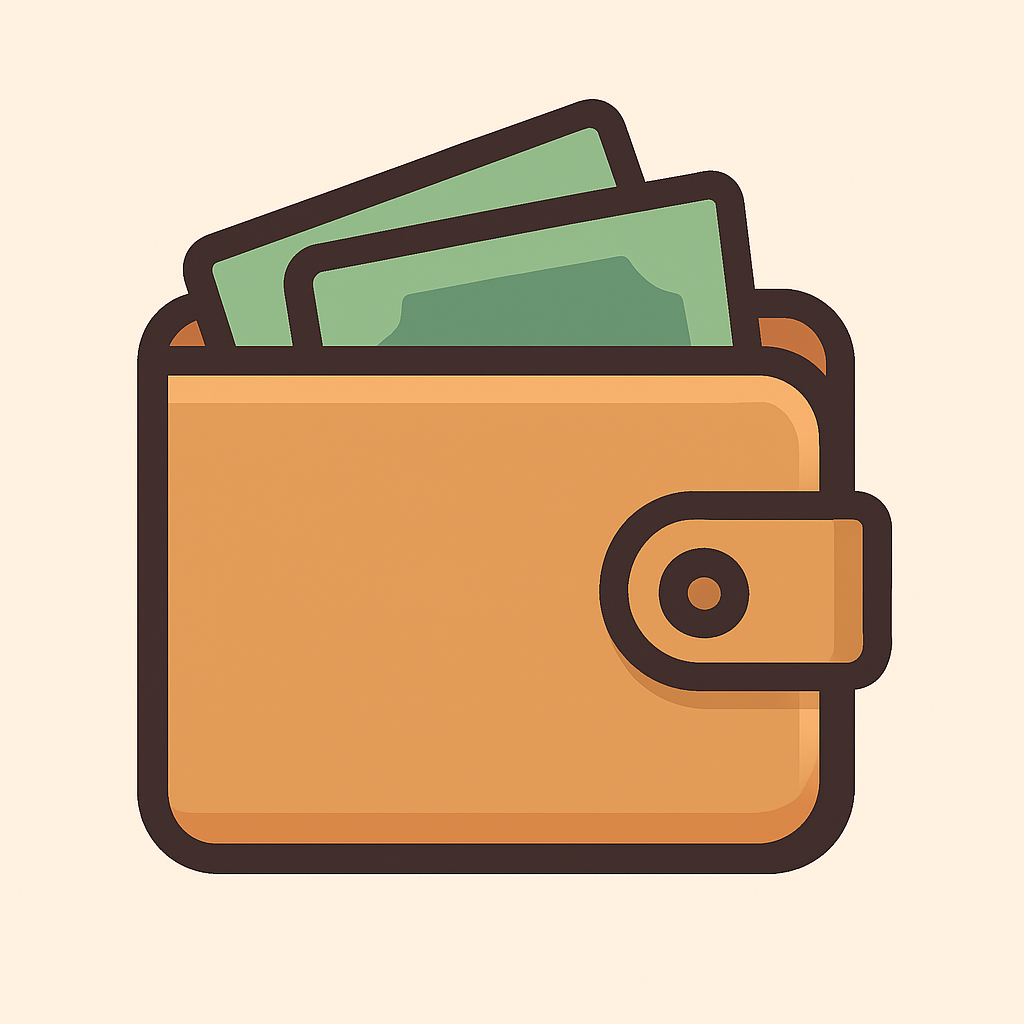
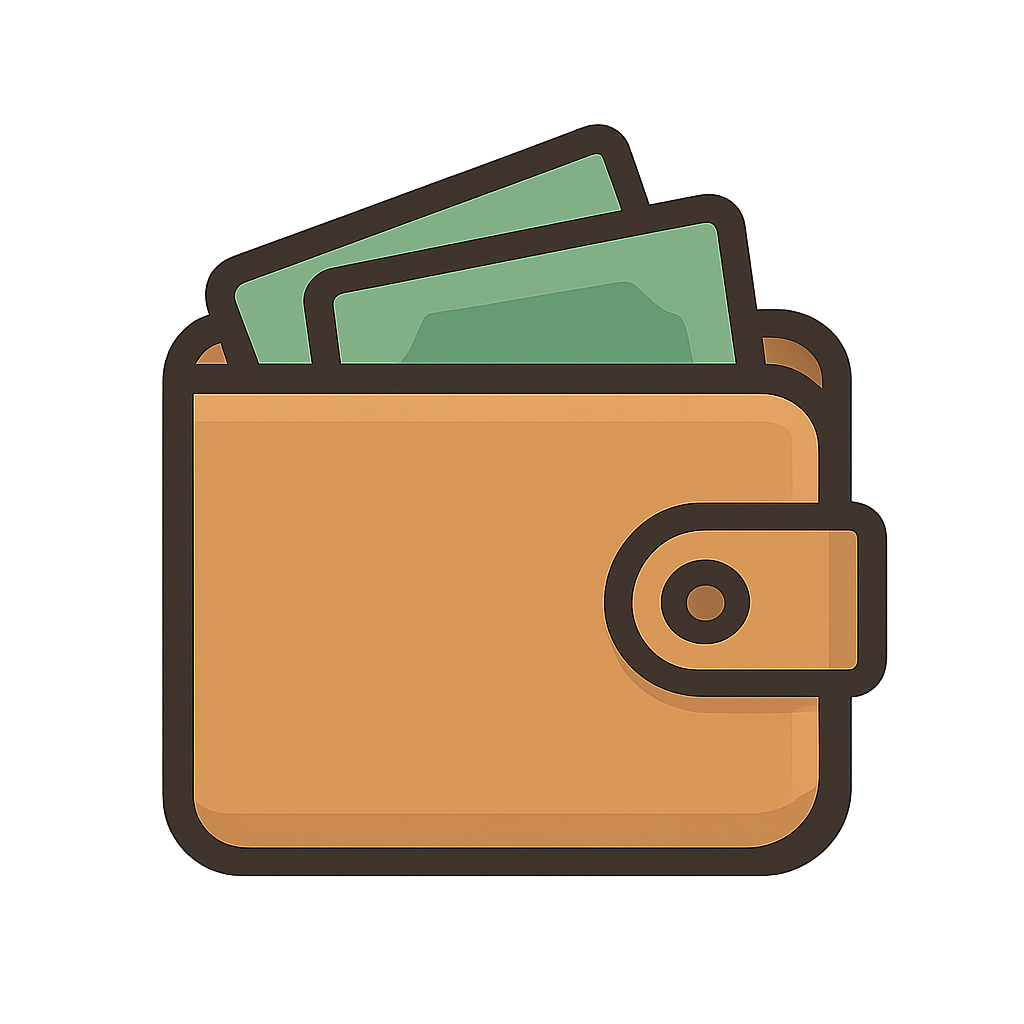
Multiple changes

diff --git a/web/transactions.html b/web/transactions.html
@@ -4,14 +4,14 @@
   <meta charset="UTF-8">
   <meta name="viewport" content="width=device-width, initial-scale=1.0">
   <title>Wally | Transactions</title>
-  <link rel="icon" type="image/png" href="assets/wally-transparent.png">
+  <link rel="icon" type="image/png" href="assets/wally.png">
   <meta name="robots" content="index,follow" />
-  <meta name="description" content="A simple finance app for managing your income and expenses." />
+  <meta name="description" content="A lightweight, self-hosted expense tracker that helps you manage your finances." />
   <meta property="author" content="Pol Alzina" />
   <meta property="og:title" content="Wally" />
-  <meta property="og:description" content="A simple finance app for managing your income and expenses." />
+  <meta property="og:description" content="A lightweight, self-hosted expense tracker that helps you manage your finances." />
   <meta property="og:type" content="website" />
-  <meta property="og:image" content="assets/wally-transparent.png" />
+  <meta property="og:image" content="assets/wally.png" />
   <!-- CSS -->
   <link href="css/bootstrap.min.css" rel="stylesheet">
   <link href="css/tom-select.min.css" rel="stylesheet">
@@ -157,7 +157,7 @@
     <div class="container">
       <nav class="navbar navbar-expand-lg navbar-light">
         <a class="navbar-brand d-flex align-items-center" style="margin-left:10px; margin-right:30px" href="/">
-          <img src="assets/wally-transparent.png" alt="Wally" width="50" height="50" style="margin-bottom: 5px; margin-right: 8px;">
+          <img src="assets/wally.png" alt="Wally" width="50" height="50" style="margin-bottom: 5px; margin-right: 8px;">
           <span style="font-size: 1.8rem; font-weight:600;">Wally</span>
         </a>
         <button class="navbar-toggler" type="button" data-bs-toggle="collapse" data-bs-target="#navbarNav">

diff --git a/web/index.html b/web/index.html
@@ -4,14 +4,14 @@
   <meta charset="UTF-8">
   <meta name="viewport" content="width=device-width, initial-scale=1.0">
   <title>Wally | Dashboards</title>
-  <link rel="icon" type="image/png" href="assets/wally-transparent.png">
+  <link rel="icon" type="image/png" href="assets/wally.png">
   <meta name="robots" content="index,follow" />
-  <meta name="description" content="A simple finance app for managing your income and expenses." />
+  <meta name="description" content="A lightweight, self-hosted expense tracker that helps you manage your finances." />
   <meta property="author" content="Pol Alzina" />
   <meta property="og:title" content="Wally" />
-  <meta property="og:description" content="A simple finance app for managing your income and expenses." />
+  <meta property="og:description" content="A lightweight, self-hosted expense tracker that helps you manage your finances." />
   <meta property="og:type" content="website" />
-  <meta property="og:image" content="assets/wally-transparent.png" />
+  <meta property="og:image" content="assets/wally.png" />
   <!-- CSS -->
   <link href="css/bootstrap.min.css" rel="stylesheet">
   <link href="css/tom-select.min.css" rel="stylesheet">
@@ -316,7 +316,7 @@
     <div class="container">
       <nav class="navbar navbar-expand-lg navbar-light">
         <a class="navbar-brand d-flex align-items-center" style="margin-left:10px; margin-right:30px" href="/">
-          <img src="assets/wally-transparent.png" alt="Wally" width="50" height="50" style="margin-bottom: 5px; margin-right: 8px;">
+          <img src="assets/wally.png" alt="Wally" width="50" height="50" style="margin-bottom: 5px; margin-right: 8px;">
           <span style="font-size: 1.8rem; font-weight:600;">Wally</span>
         </a>
         <button class="navbar-toggler" type="button" data-bs-toggle="collapse" data-bs-target="#navbarNav">

diff --git a/web/settings.html b/web/settings.html
@@ -4,14 +4,14 @@
   <meta charset="UTF-8">
   <meta name="viewport" content="width=device-width, initial-scale=1.0">
   <title>Wally | Settings</title>
-  <link rel="icon" type="image/png" href="assets/wally-transparent.png">
+  <link rel="icon" type="image/png" href="assets/wally.png">
   <meta name="robots" content="index,follow" />
-  <meta name="description" content="A simple finance app for managing your income and expenses." />
+  <meta name="description" content="A lightweight, self-hosted expense tracker that helps you manage your finances." />
   <meta property="author" content="Pol Alzina" />
   <meta property="og:title" content="Wally" />
-  <meta property="og:description" content="A simple finance app for managing your income and expenses." />
+  <meta property="og:description" content="A lightweight, self-hosted expense tracker that helps you manage your finances." />
   <meta property="og:type" content="website" />
-  <meta property="og:image" content="assets/wally-transparent.png" />
+  <meta property="og:image" content="assets/wally.png" />
   <!-- CSS -->
   <link href="css/bootstrap.min.css" rel="stylesheet">
   <link href="css/tom-select.min.css" rel="stylesheet">
@@ -84,7 +84,7 @@
     <div class="container">
       <nav class="navbar navbar-expand-lg navbar-light">
         <a class="navbar-brand d-flex align-items-center" style="margin-left:10px; margin-right:30px" href="/">
-          <img src="assets/wally-transparent.png" alt="Wally" width="50" height="50" style="margin-bottom: 5px; margin-right: 8px;">
+          <img src="assets/wally.png" alt="Wally" width="50" height="50" style="margin-bottom: 5px; margin-right: 8px;">
           <span style="font-size: 1.8rem; font-weight:600;">Wally</span>
         </a>
         <button class="navbar-toggler" type="button" data-bs-toggle="collapse" data-bs-target="#navbarNav">

diff --git a/web/login.html b/web/login.html
@@ -4,14 +4,14 @@
     <meta charset="UTF-8">
     <meta name="viewport" content="width=device-width, initial-scale=1.0">
     <title>Wally | Login</title>
-    <link rel="icon" type="image/png" href="assets/wally-transparent.png">
+    <link rel="icon" type="image/png" href="assets/wally.png">
     <meta name="robots" content="index,follow" />
-    <meta name="description" content="A simple finance app for managing your income and expenses." />
+    <meta name="description" content="A lightweight, self-hosted expense tracker that helps you manage your finances." />
     <meta property="author" content="Pol Alzina" />
     <meta property="og:title" content="Wally" />
-    <meta property="og:description" content="A simple finance app for managing your income and expenses." />
+    <meta property="og:description" content="A lightweight, self-hosted expense tracker that helps you manage your finances." />
     <meta property="og:type" content="website" />
-    <meta property="og:image" content="assets/wally-transparent.png" />
+    <meta property="og:image" content="assets/wally.png" />
     <link href="css/bootstrap.min.css" rel="stylesheet">
     <script src="js/bootstrap.bundle.min.js" defer></script>
     <script src="js/bootstrap-show-toast.js" defer></script>
@@ -50,7 +50,7 @@
   <main class="form-signin w-100 m-auto">
     <form onsubmit="login(event)" >
       <div href="/" class="text-center d-block" style="cursor: default">
-        <img src="assets/wally-transparent.png" alt="Wally Logo" width="100" height="110" class="mb-2">
+        <img src="assets/wally.png" alt="Wally Logo" width="100" height="110" class="mb-2">
         <div class="fw-semibold" style="font-size: 2.8rem;">Wally</div>
         <div class="fw-medium fs-6 mt-1">LOGIN</div>
       </div>

diff --git a/api/routers/auth.py b/api/routers/auth.py
@@ -131,10 +131,6 @@ def set_login_password(
     db: Annotated[Session, Depends(get_session)],
     _ = Depends(check_login),
 ):
-    # Check if demo
-    if os.getenv("DEMO", "false").lower() == "true":
-        raise HTTPException(status_code=405, detail="This feature is restricted in the Demo version.")
-
     if not login.password:
         db.get(AppConfig, "LOGIN_PAGE").value = False
     else:
